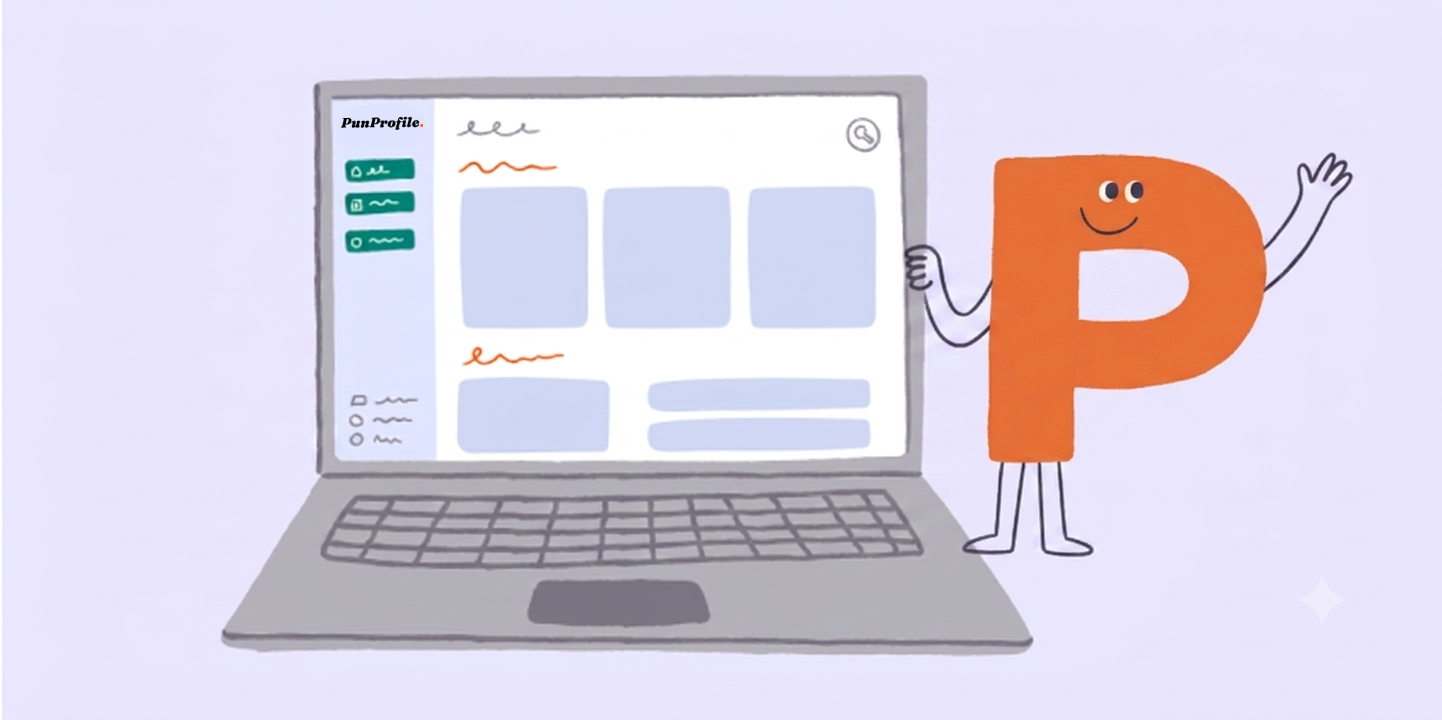
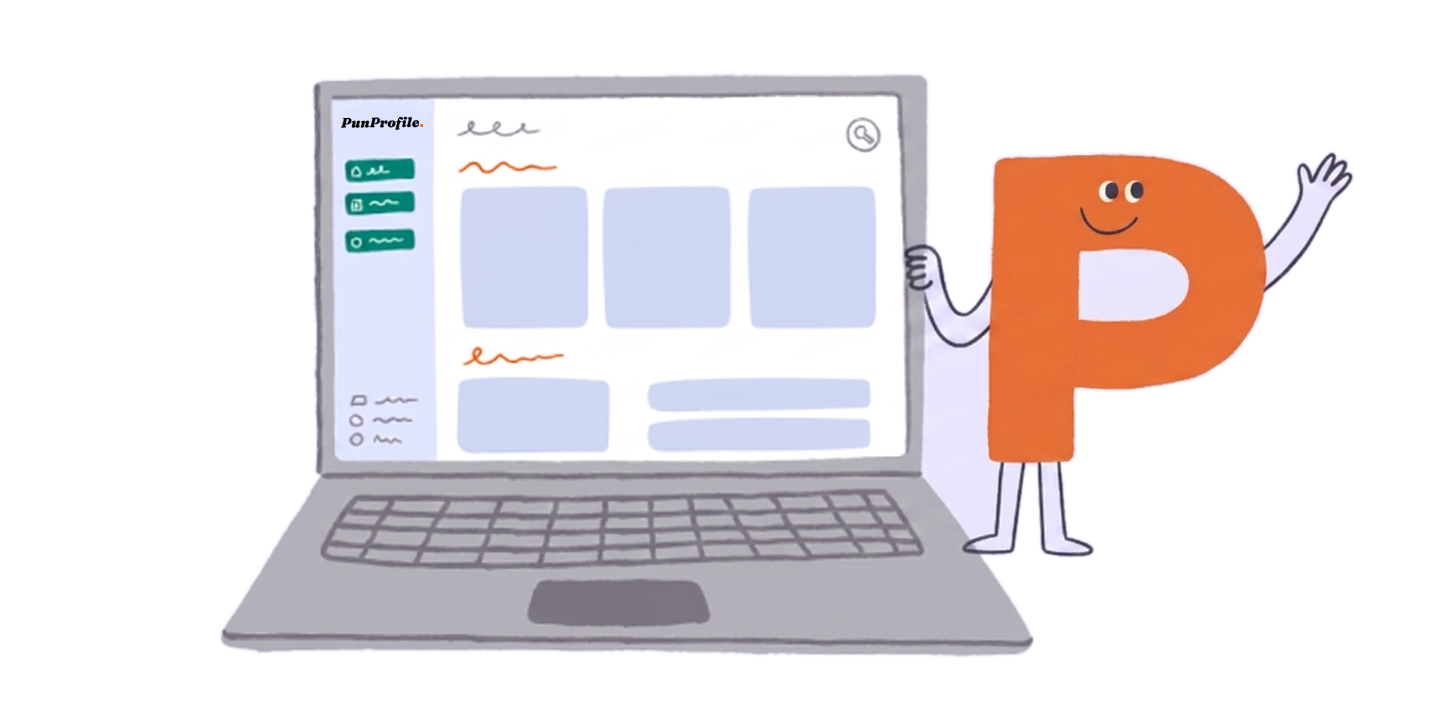
The mascot scenes lose their backgrounds, which were the retired washes
All three shipped with lavender, mint and cream baked into the pixels. Those are
the washes the M3 rebrand retired, so the illustrations were serving the old
palette on the live site regardless of scheme, and in dark mode they sat as
bright rectangles on a dark page.

Keyed out by flood-filling from the border only, so a light area inside the
drawing survives unless it is connected to the outside. They now composite onto
whatever container tone the section uses, in either scheme.

The laptop scene needed a second pass. Its ground runs near-white on the left to
lavender on the right, so a single median plus a tolerance left an unkeyed strip
at one end. Widening the tolerance ate the laptop, which is white and adjacent to
the background; keying against both ends of the gradient instead kept it whole.
Checked composited over `surface-container` in both schemes.

`scripts/lib/og-correct.py` goes too. It fitted the 3x3 colour-correction matrix
the social card used to need, and headless Chrome reproduces every calibration
patch byte-exact, so nothing calls it. In history if the capture method changes
back.

diff --git a/public/README-og.md b/public/README-og.md
@@ -96,6 +96,10 @@ placement.
    patch is off by more than a unit, something about the capture has changed and
    the old matrix fit is in this file's git history.
 
+   `scripts/lib/og-correct.py`, which fitted and applied that matrix, was
+   deleted in the same change. It is in git history if the capture method ever
+   goes back to screenshotting a visible window.
+
    Capturing at `--force-device-scale-factor=1` also matters: the browser
    extension's screenshot runs at DPR 2 and is returned downscaled as JPEG,
    which would mean building a 1200x630 deliverable out of a resampled lossy
